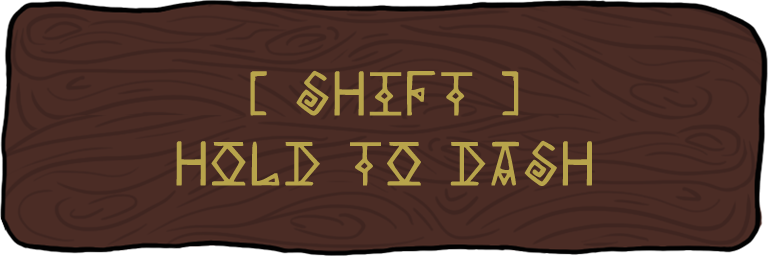
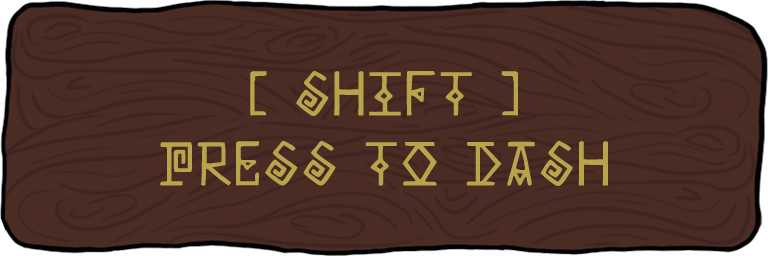
Sign & Menu & Quit

diff --git a/Rotpot/Rotpot/src/main/Main.cs b/Rotpot/Rotpot/src/main/Main.cs
@@ -22,10 +22,10 @@ namespace Svennebanan
 
         public enum STATE
         {
-            Game, Menu
+            Game, Menu, Quit
         };
 
-        public static STATE state = STATE.Game;
+        public static STATE state = STATE.Menu;
 
         public Main()
         {
@@ -33,6 +33,7 @@ namespace Svennebanan
             graphics = new GraphicsDeviceManager(this);
             graphics.PreferredBackBufferWidth = 1920;
             graphics.PreferredBackBufferHeight = 1080;
+            IsMouseVisible = true;
             Content.RootDirectory = "Content";
         }
 
@@ -45,7 +46,7 @@ namespace Svennebanan
             input = new InputHandler();
             level = new LevelOne(resources);
 
-            menu = new MainMenu(resources);
+            menu = new MainMenu(resources, new Vector2(), level);
         }
 
         protected override void LoadContent()
@@ -62,7 +63,15 @@ namespace Svennebanan
         protected override void Update(GameTime gameTime)
         {
             if (GamePad.GetState(PlayerIndex.One).Buttons.Back == ButtonState.Pressed || Keyboard.GetState().IsKeyDown(Keys.Escape))
+            {
+                
+            }
+
+
+            if (state == STATE.Quit)
+            {
                 Exit();
+            }
 
             if (state == STATE.Game)
             {
@@ -93,6 +102,21 @@ namespace Svennebanan
             {
                 menu.Draw(spriteBatch);
             }
+            if (GamePad.GetState(PlayerIndex.One).Buttons.Back == ButtonState.Pressed || Keyboard.GetState().IsKeyDown(Keys.Escape) && Main.state == Main.STATE.Game)
+            {
+
+
+                if (GamePad.GetState(PlayerIndex.One).Buttons.Start == ButtonState.Pressed || Keyboard.GetState().IsKeyDown(Keys.Enter))
+                {
+                    Main.state = Main.STATE.Menu;
+                }
+
+                if (GamePad.GetState(PlayerIndex.One).Buttons.Start == ButtonState.Pressed || Keyboard.GetState().IsKeyDown(Keys.Enter))
+                {
+
+                }
+            }
+
             spriteBatch.End();
 
             base.Draw(gameTime);

diff --git a/Rotpot/Rotpot/src/level/entities/EntitySign.cs b/Rotpot/Rotpot/src/level/entities/EntitySign.cs
@@ -33,7 +33,26 @@ namespace Rotpot.src.level.entities
 
             if(player.GetDistance(position) <= 500 && signId == 1)
             {
-                batch.Draw(level.resourceManager.images.GetImage("WASDSign"), new Vector2(position.X, position.Y - 100), null, Color.White, 0f, new Vector2(0, 0), 1, SpriteEffects.None, 0.4f);
+                batch.Draw(level.resourceManager.images.GetImage("WADSign"), new Vector2(position.X - 300, position.Y - 400), null, Color.White, 0f, new Vector2(0, 0), 1, SpriteEffects.None, 0.5f);
+            }
+            if (player.GetDistance(position) <= 500 && signId == 2)
+            {
+                batch.Draw(level.resourceManager.images.GetImage("DoubleSign"), new Vector2(position.X - 300, position.Y - 400), null, Color.White, 0f, new Vector2(0, 0), 1, SpriteEffects.None, 0.5f);
+            }
+            if (player.GetDistance(position) <= 500 && signId == 3)
+            {
+                batch.Draw(level.resourceManager.images.GetImage("DashSign"), new Vector2(position.X - 300, position.Y - 400), null, Color.White, 0f, new Vector2(0, 0), 1, SpriteEffects.None, 0.5f);
+
+            }
+            if (player.GetDistance(position) <= 500 && signId == 5)
+            {
+                batch.Draw(level.resourceManager.images.GetImage("WarningSign"), new Vector2(position.X - 300, position.Y - 400), null, Color.White, 0f, new Vector2(0, 0), 1, SpriteEffects.None, 0.5f);
+
+            }
+            if (player.GetDistance(position) <= 500 && signId == 4)
+            {
+                batch.Draw(level.resourceManager.images.GetImage("LongJumpSign"), new Vector2(position.X - 300, position.Y - 400), null, Color.White, 0f, new Vector2(0, 0), 1, SpriteEffects.None, 0.5f);
+
             }
 
 

diff --git a/Rotpot/Rotpot/src/gui/Button.cs b/Rotpot/Rotpot/src/gui/Button.cs
@@ -15,24 +15,30 @@ namespace Svennebanan.gui
         public bool trigger;
         private Vector2 position;
         private int width, height;
-        private int textureID;
+        private string textureID;
         private Main main;
+        private Level level;
+        
 
 
-        public Button(Vector2 position, int width, int height, int textureID, Main main)
+        public Button(Vector2 position, int width, int height, string textureID, Level level)
         {
+            this.level = level;
             this.position = position;
             this.width = width;
             this.height = height;
-            this.main = main;
+            
             this.textureID = textureID;
         }
 
         public void Update()
         {
-            if ((Mouse.GetState().X / 2 >= position.X && Mouse.GetState().X / 2 <= position.X + width) && (Mouse.GetState().Y / 2 >= position.Y && Mouse.GetState().Y / 2 <= position.Y + height))
+            
+            if ((Mouse.GetState().X >= position.X && Mouse.GetState().X <= position.X + width) && (Mouse.GetState().Y >= position.Y && Mouse.GetState().Y <= position.Y + height))
             {
-                if(Mouse.GetState().LeftButton == ButtonState.Pressed)
+                
+
+                if (Mouse.GetState().LeftButton == ButtonState.Pressed)
                 {
                     trigger = true;
                 }
@@ -50,7 +56,7 @@ namespace Svennebanan.gui
 
         public void Draw(SpriteBatch batch)
         {
-            //batch.Draw(main.images.GetImage(textureID), position, Color.White);
+            batch.Draw(level.resourceManager.images.GetImage(textureID), position, Color.White);
         }
     }
 }

diff --git a/Rotpot/Rotpot/src/gui/MainMenu.cs b/Rotpot/Rotpot/src/gui/MainMenu.cs
@@ -1,6 +1,7 @@
 using Microsoft.Xna.Framework;
 using Microsoft.Xna.Framework.Graphics;
 using Svennebanan;
+using Svennebanan.gui;
 using System;
 using System.Collections.Generic;
 using System.Linq;
@@ -9,28 +10,65 @@ using System.Threading.Tasks;
 
 namespace Rotpot.src.gui
 {
-    class MainMenu
+    public class MainMenu
     {
-
+        
         private ResourceManager res;
+        private Button start;
+        private Button help;
+        private Button options;
+        private Button quit;
 
-        public MainMenu(ResourceManager res)
+      
+
+
+        public MainMenu(ResourceManager res, Vector2 position, Level level)
         {
             this.res = res;
+
+
+            start = new Button(new Vector2(1920 / 2 - 342 / 2, 1080 / (float)3.5 - 114 / (float)3.5), 342, 114, "Play", level);
+
+            quit = new Button(new Vector2(1920 / 2 - 400 / 2, 1080 / (float)1.25 - 113 / (float)1.25), 400, 113, "Quit", level);
+
         }
 
         public MainMenu()
         {
+
         }
 
         public void Update()
         {
+            start.Update();
+
+            quit.Update();
+            
+
+            if (start.trigger)
+            {
+                Console.WriteLine("Brah");
+                Main.state = Main.STATE.Game;
+                
+            }
+
+           
+
+            if (quit.trigger)
+            {
+                Main.state = Main.STATE.Quit;
+            }
+
 
         }
 
         public void Draw(SpriteBatch batch)
         {
             batch.Draw(res.images.GetImage("background"), new Vector2(0, 0));
+            start.Draw(batch);
+
+            quit.Draw(batch);
+
         }
 
     }

diff --git a/Rotpot/Rotpot/src/utils/ResourceManager.cs b/Rotpot/Rotpot/src/utils/ResourceManager.cs
@@ -23,10 +23,16 @@ namespace Svennebanan
 
         public void LoadContent(ContentManager content)
         {
+            images.AddImage("Play", content.Load<Texture2D>("PLAY"));
+            images.AddImage("Help", content.Load<Texture2D>("HELP"));
+            images.AddImage("Options", content.Load<Texture2D>("OPTIONS"));
+            images.AddImage("Quit", content.Load<Texture2D>("QUIT"));
+            images.AddImage("LongJumpSign", content.Load<Texture2D>("LONGJUMPSign"));
             images.AddImage("DashSign", content.Load<Texture2D>("DashSign"));
             images.AddImage("Sign", content.Load<Texture2D>("skylt 192x192"));
             images.AddImage("DoubleSign", content.Load<Texture2D>("DoubleSign"));
-            images.AddImage("WASDSign", content.Load<Texture2D>("WASDSign"));
+            images.AddImage("WADSign", content.Load<Texture2D>("WADSign"));
+            images.AddImage("WarningSign", content.Load<Texture2D>("WarningSign"));
             images.AddImage("tile_sheet", content.Load<Texture2D>("TILESHEET128X128"));
             images.AddImage("grass", content.Load<Texture2D>("grass"));
             images.AddImage("interface", content.Load<Texture2D>("interface"));

diff --git a/Rotpot/Rotpot/src/level/LevelOne.cs b/Rotpot/Rotpot/src/level/LevelOne.cs
@@ -21,7 +21,7 @@ namespace Rotpot.src.level
             LoadLevel("Content/levels/Level1.txt");
 
             entityManager.AddEntity(this, new EntityPlayer(new Vector2(2 * 128, 47 * 128)));
-            entityManager.AddEntity(this, new EntitySign(new Vector2(2 * 128, 47 * 128), 1));
+            entityManager.AddEntity(this, new EntitySign(new Vector2(2 * 128, 47.5f * 128), 1));
             entityManager.AddEntity(this, new EntityBox(new Vector2(226 * 128, 40 * 128)));
             entityManager.AddEntity(this, new EntityMygga(new Vector2(-100, 2600)));
             entityManager.AddEntity(this, new EntityMygga(new Vector2(-100, 2600)));

diff --git a/Rotpot/Rotpot/src/level/entities/EntityLiving.cs b/Rotpot/Rotpot/src/level/entities/EntityLiving.cs
@@ -120,7 +120,7 @@ namespace Rotpot.src.level.entities
             while (stepper.nextEntity != null)
             {
                 stepper = stepper.nextEntity;
-                if (this != stepper && GetDistance(stepper.GetPosition()) < 40)
+                if (stepper is EntityLiving && this != stepper && GetDistance(stepper.GetPosition()) < 40)
                 {
                     float direction = GetDirection(stepper.GetPosition());
                     stepper.SetPosition(stepper.GetPosition() + new Vector2((float)Math.Cos(direction), (float)Math.Sin(direction)));

diff --git a/Rotpot/Rotpot/src/gui/HUD.cs b/Rotpot/Rotpot/src/gui/HUD.cs
@@ -1,5 +1,6 @@
 using Microsoft.Xna.Framework;
 using Microsoft.Xna.Framework.Graphics;
+using Microsoft.Xna.Framework.Input;
 using Rotpot.src.level.entities;
 using Svennebanan;
 using System;
